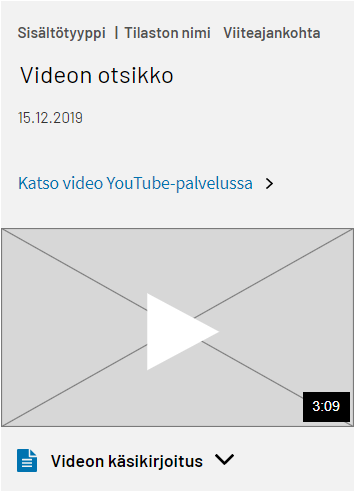
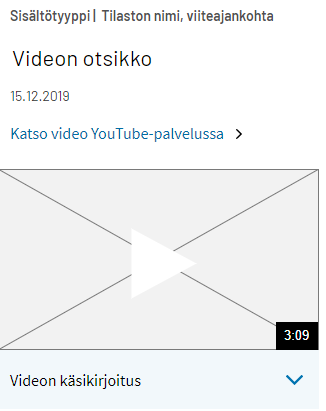
Content update
Video text and pictures updated, from two column to one column.

diff --git a/README.md b/README.md
@@ -698,7 +698,9 @@ Tooltip on pieni laatikko, joka tulee näkyviin käyttäjän toiminnon käynnist
 
 ### Video
 
-Tilastojulkistuksiin voidaan liittää videoelementti. Videoelementti on erotettu muusta sisällöstä harmaalla taustalla. Elementti koostuu taustan lisäksi sisältötyyppi- sekä tilaston nimi ja viiteajankohta -tageista, videon otsikosta, videon julkaisupäivämäärästä, linkistä Youtube-palveluun, itse videosta ja videon käsikirjoituksesta. Videon käsikirjoitus on saatavilla videon alla laajennuspaneelissa. 
+Tiedotteisiin voidaan liittää videoelementti. Video sijaitsee tiedotteissa tiedotteen tekstiosuuden jälkeen. Videoelementti koostuu useasta pienemmästä elementistä: sisältötyyppi-, tilaston nimi- ja viiteajankohta -tageista, videon otsikosta, videon julkaisupäivämäärästä, linkistä Youtube-palveluun, itse videosta ja videon käsikirjoituksesta. Videon käsikirjoitus on saatavilla videon alla laajennuspaneelissa. 
+
+![Video desktop-koossa. Käsikirjoitus-laajennuspaneeli on avattu. ](images/video_desktop_avattu.png)
 
 #### Videoiden saavutettavuus
 
@@ -709,19 +711,15 @@ Tilastojulkistuksiin voidaan liittää videoelementti. Videoelementti on erotett
 
 #### Koko
 
-![Video mobiili-koossa.](images/video_mobiili.png)
+ Videoelementin osat asettuvat allekkain sekä mobiili- että desktop-koossa. Järjestys ylhäältä alas: sisältötyyppi- sekä tilaston nimi ja viiteajankohta -tagit, videon otsikko, videon julkaisupäivämäärä, linkki Youtube-palveluun, itse video ja videon käsikirjoitus -laajennuspaneeli.
 
- Pienillä näytöillä videoelementin osat asettuvat allekkain. Järjestys ylhäältä alas: sisältötyyppi- sekä tilaston nimi ja viiteajankohta -tagit, videon otsikko, videon julkaisupäivämäärä, linkki Youtube-palveluun, videosta ja videon käsikirjoitus.
-
-![Video desktop-koossa.](images/video_desktop.png)
-
-Isoilla näytöillä tekstiosat ja video asettuvat vierekkäin. Tagit, otsikko, julkaisupäivämäärä ja linkki Youtubeen ovat vasemmalla ja vievät 50% koko elementin leveydestä, video oikealla ja vie 50% leveydestä. Käsikirjoitus-laajennuspaneeli näiden alla 100% leveänä. Kun sivua käytetään ruudunlukijalla tai näppäimistöllä, elementtien järjestys (ts. fokuksen ja ruudunlukijan etenemisjärjestys) on sama kuin mobiilissa eli Youtube-linkin jälkeen tulee video ja videon jälkeen käsikirjoitus-laajennuspaneeli. 
+![Video mobiili-koossa. ](images/video_mobiili.png)
 
 #### Videoelementin tyylit
 
 | Background-color |
 | ---------------- |
-| #f2f2f2          |
+| #ffffff          |
 
 | Videoelementin osa | Noudattaa tyyliä        |
 | ------------------ | ----------------------- |
